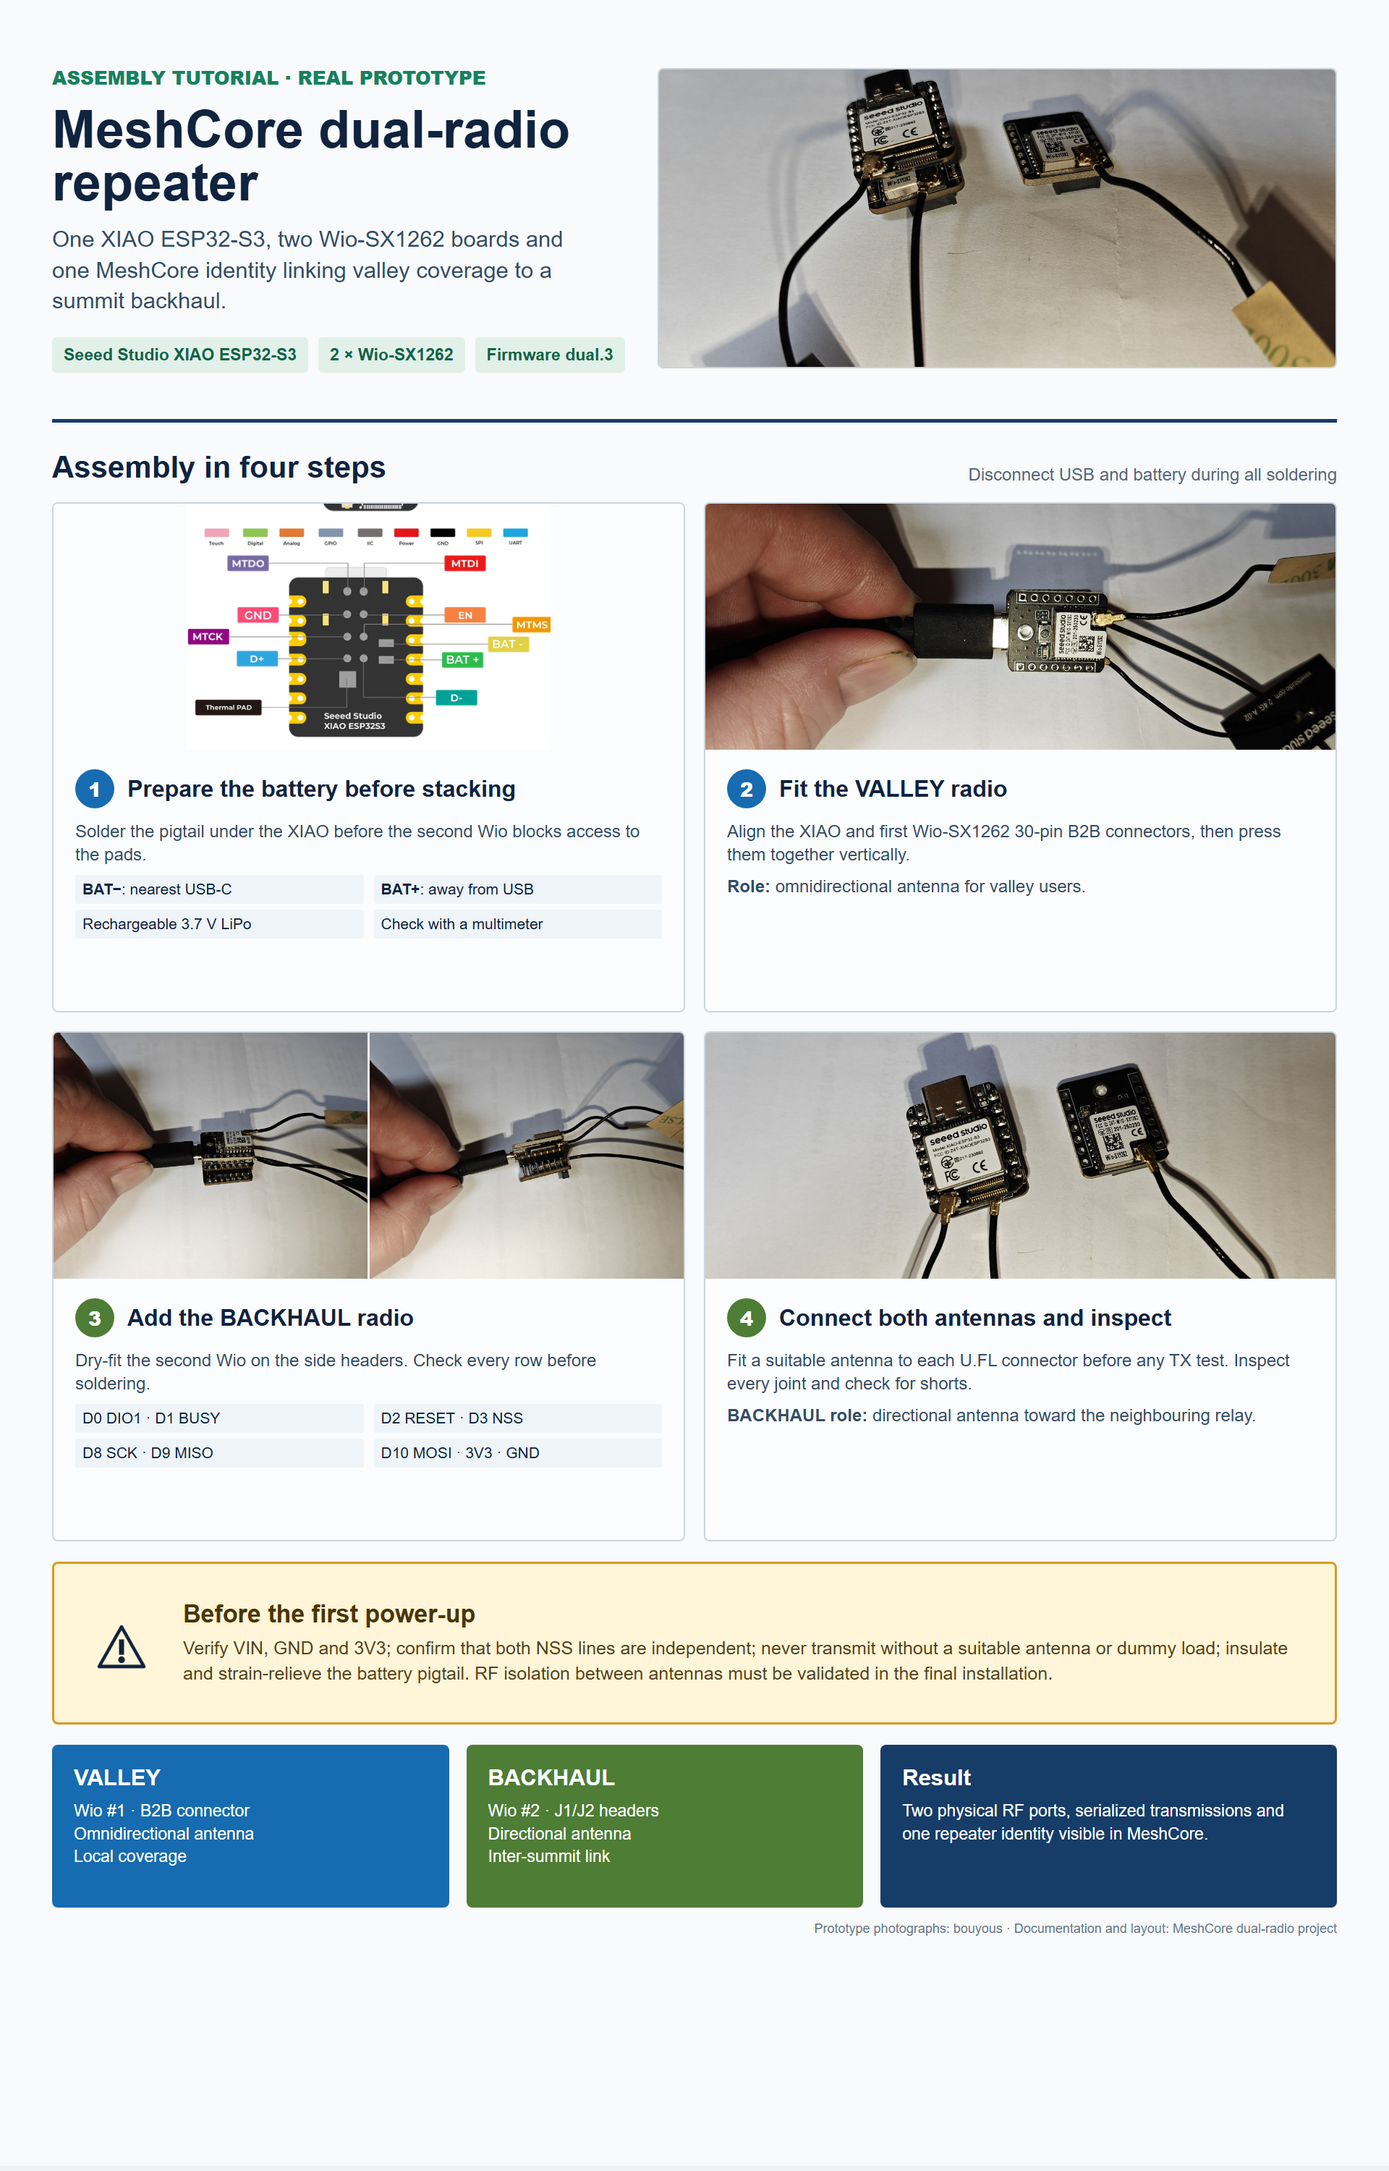
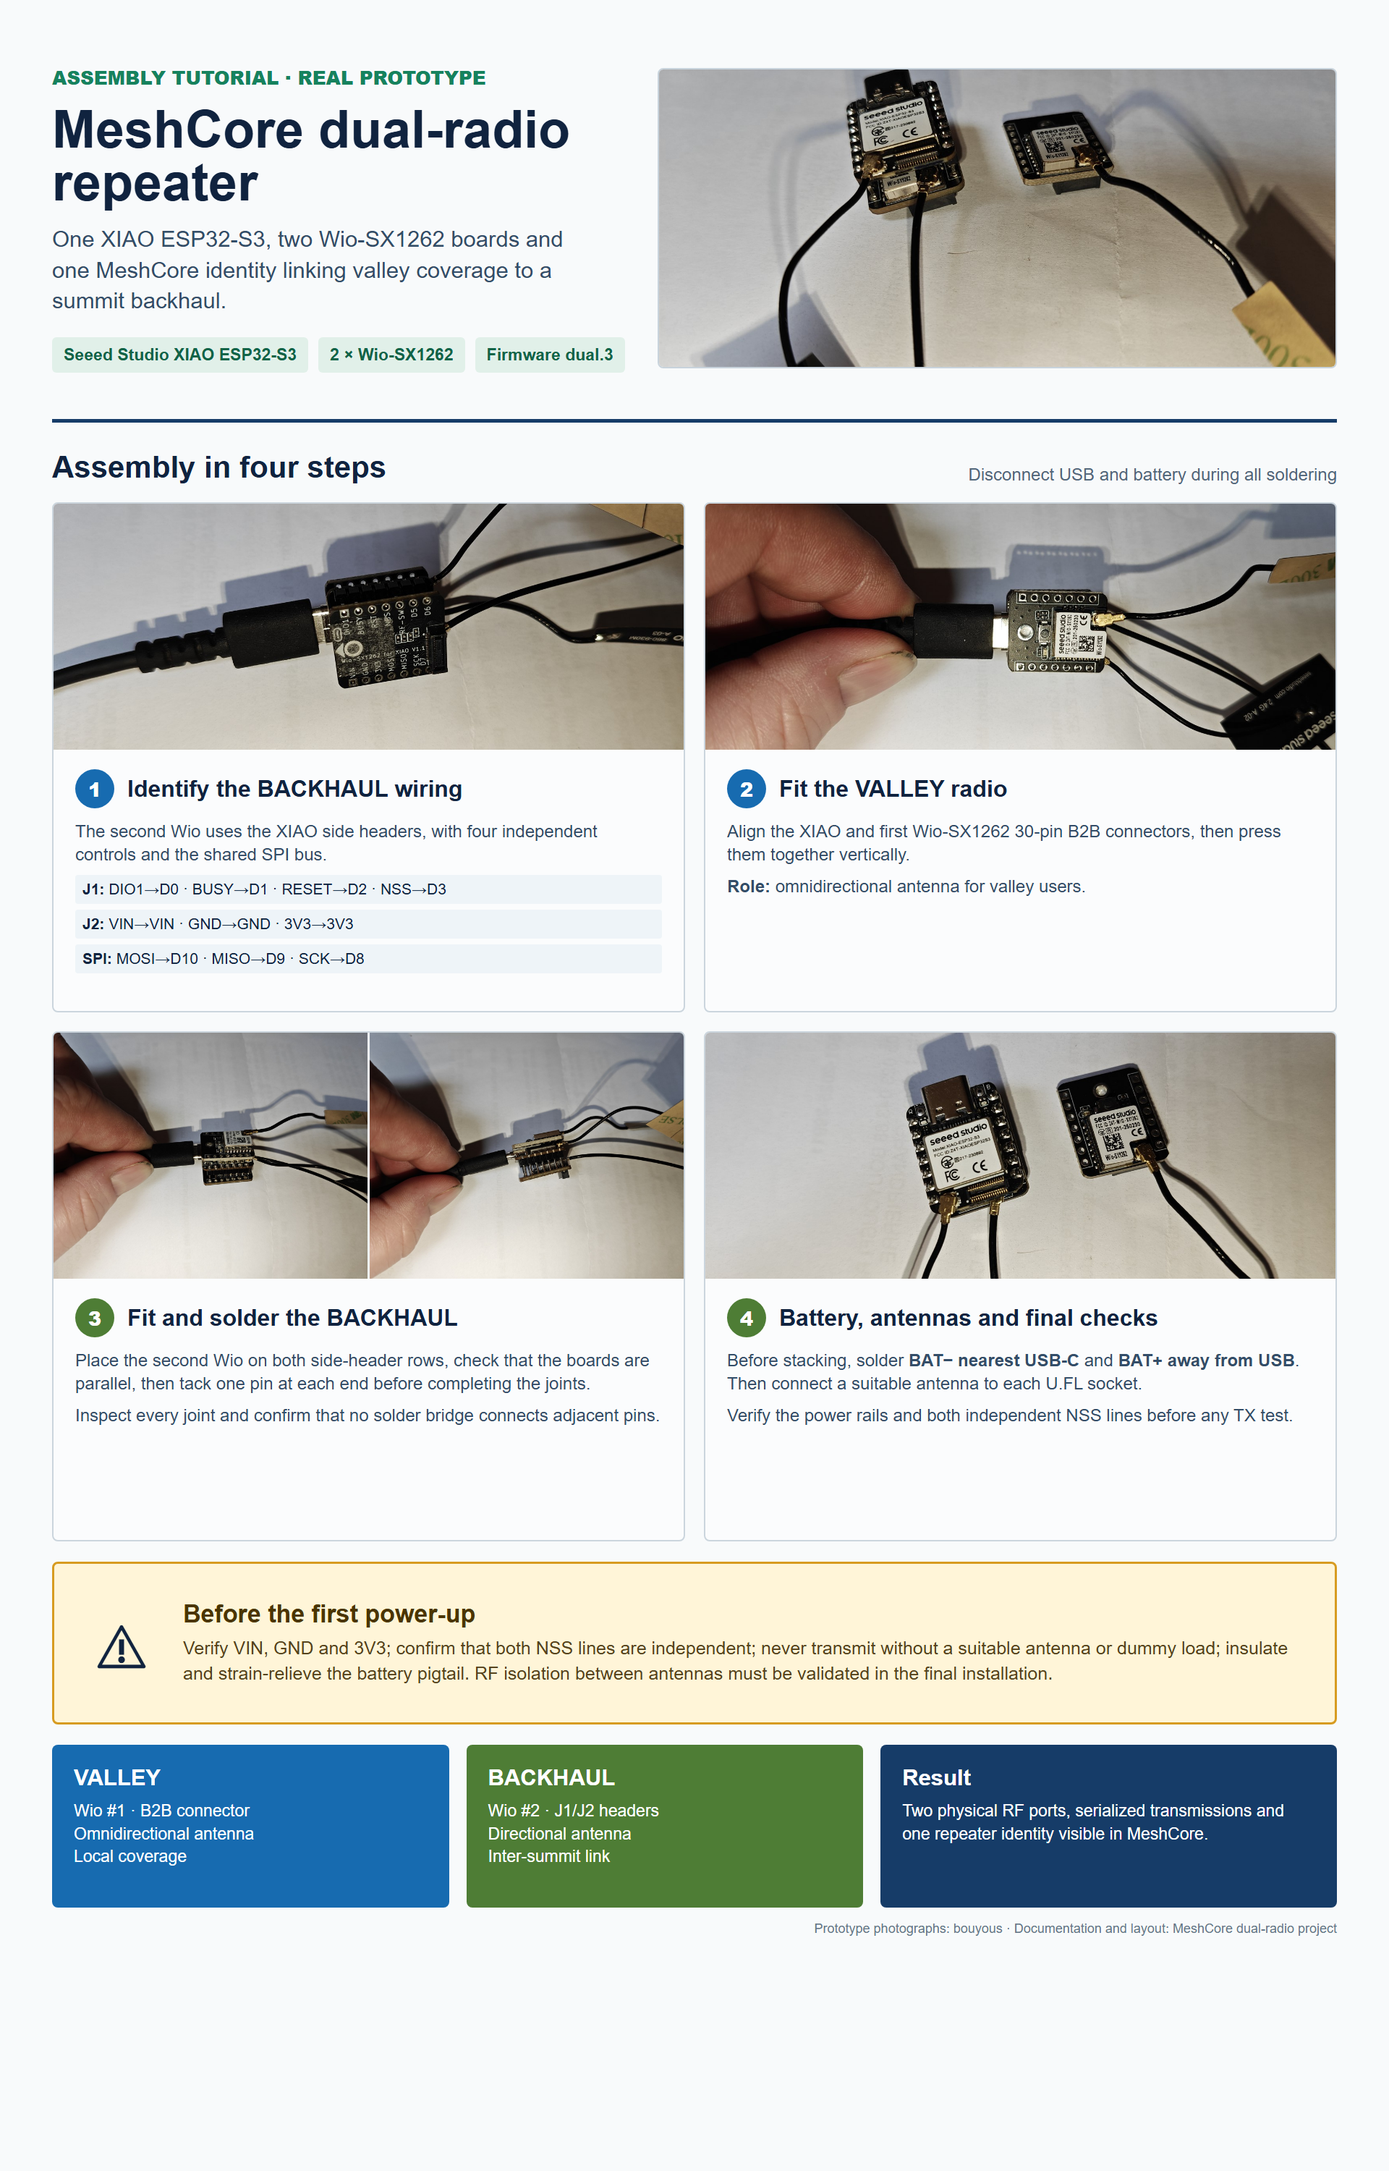
Prioritize backhaul wiring in assembly tutorial

Changed region(s): [[0.0312, 0.217, 0.5, 0.434], [0.0625, 0.589, 0.4375, 0.682], [0.5312, 0.589, 0.9375, 0.651]]

diff --git a/docs/assets/assembly/assembly-tutorial-source.html b/docs/assets/assembly/assembly-tutorial-source.html
@@ -39,6 +39,7 @@
     .step p { margin: 0 0 12px; font-size: 24px; line-height: 1.34; color: #334d68; }
     .mapping { margin-top: 11px; display: grid; grid-template-columns: 1fr 1fr; gap: 8px 14px; font-size: 21px; color: #10233f; }
     .mapping span { padding: 8px 10px; background: #eef4f8; border-radius: 4px; }
+    .mapping .wide { grid-column: 1 / -1; }
     .warnings { margin-top: 28px; min-height: 225px; display: grid; grid-template-columns: 118px 1fr; align-items: center; gap: 26px; padding: 28px 34px; background: #fff5d8; border: 3px solid #d79b20; border-radius: 8px; }
     .warning-icon { font-size: 78px; text-align: center; }
     .warnings h2 { margin: 0 0 10px; font-size: 34px; color: #4b3500; }
@@ -67,8 +68,8 @@
     <div class="section-head"><h2>Assemblage en quatre étapes</h2><p>USB et batterie débranchés pendant toute soudure</p></div>
     <section class="steps">
       <article class="step">
-        <div class="step-media contain"><img src="09-battery-pads.png" alt="Pads batterie officiels du XIAO ESP32-S3"></div>
-        <div class="step-body"><div class="step-title"><span class="number">1</span><h3>Préparer la batterie avant l'empilage</h3></div><p>Souder le faisceau sous le XIAO avant que le second Wio ne masque les pads.</p><div class="mapping"><span><strong>BAT−</strong> : côté USB-C</span><span><strong>BAT+</strong> : côté opposé</span><span>LiPo rechargeable 3,7 V</span><span>Contrôle au multimètre</span></div></div>
+        <div class="step-media"><img src="04-backhaul-pin-labels.jpg" alt="Broches du second Wio-SX1262"></div>
+        <div class="step-body"><div class="step-title"><span class="number">1</span><h3>Repérer le câblage BACKHAUL</h3></div><p>Le second Wio utilise les broches latérales du XIAO, avec quatre commandes indépendantes et le bus SPI partagé.</p><div class="mapping"><span class="wide"><strong>J1 :</strong> DIO1→D0 · BUSY→D1 · RESET→D2 · NSS→D3</span><span class="wide"><strong>J2 :</strong> VIN→VIN · GND→GND · 3V3→3V3</span><span class="wide"><strong>SPI :</strong> MOSI→D10 · MISO→D9 · SCK→D8</span></div></div>
       </article>
       <article class="step">
         <div class="step-media"><img src="03-valley-radio-mounted.jpg" alt="Premier Wio-SX1262 monté sur le connecteur B2B"></div>
@@ -76,11 +77,11 @@
       </article>
       <article class="step green">
         <div class="step-media two"><img src="05-dual-stack-top.jpg" alt="Empilage des deux radios, vue supérieure"><img src="06-dual-stack-side.jpg" alt="Empilage des deux radios, vue latérale"></div>
-        <div class="step-body"><div class="step-title"><span class="number">3</span><h3>Ajouter le radio BACKHAUL</h3></div><p>Présenter le second Wio sur les rangées latérales. Vérifier tout l'alignement avant de souder.</p><div class="mapping"><span>D0 DIO1 · D1 BUSY</span><span>D2 RESET · D3 NSS</span><span>D8 SCK · D9 MISO</span><span>D10 MOSI · 3V3 · GND</span></div></div>
+        <div class="step-body"><div class="step-title"><span class="number">3</span><h3>Monter et souder le BACKHAUL</h3></div><p>Présenter le second Wio sur les deux rangées latérales, contrôler le parallélisme, puis souder une broche à chaque extrémité avant de terminer.</p><p>Inspecter chaque joint et vérifier qu'aucun pont ne relie deux broches.</p></div>
       </article>
       <article class="step green">
         <div class="step-media"><img src="02-parts-top.jpg" alt="Deux radios avec leurs antennes"></div>
-        <div class="step-body"><div class="step-title"><span class="number">4</span><h3>Brancher les deux antennes et contrôler</h3></div><p>Une antenne adaptée sur chaque prise U.FL avant tout essai TX. Inspecter les soudures et vérifier l'absence de court-circuit.</p><p><strong>Rôle BACKHAUL :</strong> antenne directionnelle vers le relais voisin.</p></div>
+        <div class="step-body"><div class="step-title"><span class="number">4</span><h3>Batterie, antennes et contrôles</h3></div><p>Avant l'empilage, souder <strong>BAT− côté USB-C</strong> et <strong>BAT+ côté opposé</strong>. Brancher ensuite une antenne adaptée sur chaque prise U.FL.</p><p>Vérifier les alimentations et l'indépendance des deux lignes NSS avant tout essai TX.</p></div>
       </article>
     </section>
     <section class="warnings"><div class="warning-icon">⚠</div><div><h2>Avant la première mise sous tension</h2><p>Vérifier VIN, GND et 3V3 ; confirmer que les deux NSS sont indépendants ; ne jamais émettre sans antenne ou charge adaptée ; isoler et soulager mécaniquement le faisceau batterie. La séparation RF des antennes doit être validée dans l'installation finale.</p></div></section>
@@ -101,8 +102,8 @@
     <div class="section-head"><h2>Assembly in four steps</h2><p>Disconnect USB and battery during all soldering</p></div>
     <section class="steps">
       <article class="step">
-        <div class="step-media contain"><img src="09-battery-pads.png" alt="Official XIAO ESP32-S3 battery pads"></div>
-        <div class="step-body"><div class="step-title"><span class="number">1</span><h3>Prepare the battery before stacking</h3></div><p>Solder the pigtail under the XIAO before the second Wio blocks access to the pads.</p><div class="mapping"><span><strong>BAT−</strong>: nearest USB-C</span><span><strong>BAT+</strong>: away from USB</span><span>Rechargeable 3.7 V LiPo</span><span>Check with a multimeter</span></div></div>
+        <div class="step-media"><img src="04-backhaul-pin-labels.jpg" alt="Second Wio-SX1262 side-header pins"></div>
+        <div class="step-body"><div class="step-title"><span class="number">1</span><h3>Identify the BACKHAUL wiring</h3></div><p>The second Wio uses the XIAO side headers, with four independent controls and the shared SPI bus.</p><div class="mapping"><span class="wide"><strong>J1:</strong> DIO1→D0 · BUSY→D1 · RESET→D2 · NSS→D3</span><span class="wide"><strong>J2:</strong> VIN→VIN · GND→GND · 3V3→3V3</span><span class="wide"><strong>SPI:</strong> MOSI→D10 · MISO→D9 · SCK→D8</span></div></div>
       </article>
       <article class="step">
         <div class="step-media"><img src="03-valley-radio-mounted.jpg" alt="First Wio-SX1262 fitted through the B2B connector"></div>
@@ -110,11 +111,11 @@
       </article>
       <article class="step green">
         <div class="step-media two"><img src="05-dual-stack-top.jpg" alt="Dual-radio stack, top view"><img src="06-dual-stack-side.jpg" alt="Dual-radio stack, side view"></div>
-        <div class="step-body"><div class="step-title"><span class="number">3</span><h3>Add the BACKHAUL radio</h3></div><p>Dry-fit the second Wio on the side headers. Check every row before soldering.</p><div class="mapping"><span>D0 DIO1 · D1 BUSY</span><span>D2 RESET · D3 NSS</span><span>D8 SCK · D9 MISO</span><span>D10 MOSI · 3V3 · GND</span></div></div>
+        <div class="step-body"><div class="step-title"><span class="number">3</span><h3>Fit and solder the BACKHAUL</h3></div><p>Place the second Wio on both side-header rows, check that the boards are parallel, then tack one pin at each end before completing the joints.</p><p>Inspect every joint and confirm that no solder bridge connects adjacent pins.</p></div>
       </article>
       <article class="step green">
         <div class="step-media"><img src="02-parts-top.jpg" alt="Two radios with their antennas"></div>
-        <div class="step-body"><div class="step-title"><span class="number">4</span><h3>Connect both antennas and inspect</h3></div><p>Fit a suitable antenna to each U.FL connector before any TX test. Inspect every joint and check for shorts.</p><p><strong>BACKHAUL role:</strong> directional antenna toward the neighbouring relay.</p></div>
+        <div class="step-body"><div class="step-title"><span class="number">4</span><h3>Battery, antennas and final checks</h3></div><p>Before stacking, solder <strong>BAT− nearest USB-C</strong> and <strong>BAT+ away from USB</strong>. Then connect a suitable antenna to each U.FL socket.</p><p>Verify the power rails and both independent NSS lines before any TX test.</p></div>
       </article>
     </section>
     <section class="warnings"><div class="warning-icon">⚠</div><div><h2>Before the first power-up</h2><p>Verify VIN, GND and 3V3; confirm that both NSS lines are independent; never transmit without a suitable antenna or dummy load; insulate and strain-relieve the battery pigtail. RF isolation between antennas must be validated in the final installation.</p></div></section>

diff --git a/docs/ASSEMBLY.fr.md b/docs/ASSEMBLY.fr.md
@@ -17,30 +17,9 @@ Ce tutoriel montre le prototype réellement utilisé : un **Seeed Studio XIAO ES
 
 ![Matériel réel](assets/assembly/01-parts-overview.jpg)
 
-## 1. Tout débrancher
+## Câblage essentiel du `BACKHAUL`
 
-Débrancher le câble USB, la batterie et toute autre alimentation. Ne jamais souder une carte alimentée. Installer une antenne ou une charge adaptée sur chaque Wio avant tout essai d'émission.
-
-## 2. Préparer la batterie avant l'empilage
-
-Les pads sont sous le XIAO et deviendront difficiles à atteindre après la pose du second Wio. Avec l'USB-C comme repère :
-
-- `BAT-` est le pad le plus proche de l'USB-C, à relier au fil noir ;
-- `BAT+` est le pad le plus éloigné de l'USB-C, à relier au fil rouge.
-
-Utiliser une batterie lithium rechargeable qualifiée de 3,7 V. Isoler les deux soudures et ajouter un soulagement de traction. Ne pas brancher la batterie sur `VIN`, `5V` ou `3V3`.
-
-![Brochage officiel et pads batterie](assets/assembly/08-official-pinout.png)
-
-## 3. Monter le Wio `VALLEY`
-
-Le premier Wio-SX1262 utilise le connecteur 30 broches B2B prévu par Seeed. Orienter l'USB-C du XIAO vers le haut, aligner les deux connecteurs et presser verticalement sans torsion. Ce port est destiné à l'antenne omnidirectionnelle de la vallée.
-
-![Premier Wio monté sur le connecteur B2B](assets/assembly/03-valley-radio-mounted.jpg)
-
-## 4. Présenter le Wio `BACKHAUL`
-
-Avant toute soudure, emboîter à blanc le second Wio sur les broches latérales. Les deux rangées doivent rester parallèles et les cartes ne doivent pas se toucher en dehors des connecteurs prévus.
+Le second Wio-SX1262 n'utilise pas le connecteur B2B 30 broches. Il se monte sur les deux rangées latérales du XIAO. Vérifier ce raccordement avant de présenter ou de souder la carte.
 
 Le côté `J1` fournit les commandes indépendantes :
 
@@ -63,6 +42,31 @@ Le côté `J2` fournit l'alimentation et le bus SPI partagé :
 | SCK | D8 | 7 |
 
 ![Repères sérigraphiés du second Wio](assets/assembly/04-backhaul-pin-labels.jpg)
+
+## 1. Tout débrancher
+
+Débrancher le câble USB, la batterie et toute autre alimentation. Ne jamais souder une carte alimentée. Installer une antenne ou une charge adaptée sur chaque Wio avant tout essai d'émission.
+
+## 2. Préparer la batterie avant l'empilage
+
+Les pads sont sous le XIAO et deviendront difficiles à atteindre après la pose du second Wio. Avec l'USB-C comme repère :
+
+- `BAT-` est le pad le plus proche de l'USB-C, à relier au fil noir ;
+- `BAT+` est le pad le plus éloigné de l'USB-C, à relier au fil rouge.
+
+Utiliser une batterie lithium rechargeable qualifiée de 3,7 V. Isoler les deux soudures et ajouter un soulagement de traction. Ne pas brancher la batterie sur `VIN`, `5V` ou `3V3`.
+
+![Pads batterie officiels](assets/assembly/09-battery-pads.png)
+
+## 3. Monter le Wio `VALLEY`
+
+Le premier Wio-SX1262 utilise le connecteur 30 broches B2B prévu par Seeed. Orienter l'USB-C du XIAO vers le haut, aligner les deux connecteurs et presser verticalement sans torsion. Ce port est destiné à l'antenne omnidirectionnelle de la vallée.
+
+![Premier Wio monté sur le connecteur B2B](assets/assembly/03-valley-radio-mounted.jpg)
+
+## 4. Présenter le Wio `BACKHAUL`
+
+En suivant le tableau ci-dessus, emboîter à blanc le second Wio sur les broches latérales. Les deux rangées doivent rester parallèles et les cartes ne doivent pas se toucher en dehors des connecteurs prévus. Contrôler encore le côté `J1` des commandes et le côté `J2` alimentation/SPI avant de souder.
 
 ## 5. Souder les deux rangées
 

diff --git a/docs/ASSEMBLY.md b/docs/ASSEMBLY.md
@@ -17,30 +17,9 @@ This tutorial shows the actual prototype hardware: one **Seeed Studio XIAO ESP32
 
 ![Actual prototype parts](assets/assembly/01-parts-overview.jpg)
 
-## 1. Disconnect all power
+## Essential `BACKHAUL` wiring map
 
-Disconnect USB, battery and every other power source. Never solder a powered board. Fit an antenna or suitable dummy load to each Wio before any transmission test.
-
-## 2. Prepare the battery before stacking
-
-The battery pads are under the XIAO and become difficult to reach after the second Wio is fitted. Using USB-C as the orientation reference:
-
-- `BAT-` is the pad nearest USB-C and connects to the black lead;
-- `BAT+` is the pad away from USB-C and connects to the red lead.
-
-Use a qualified rechargeable 3.7 V lithium battery. Insulate both joints and add strain relief. Do not connect the battery to `VIN`, `5V` or `3V3`.
-
-![Official pinout and battery pads](assets/assembly/08-official-pinout.png)
-
-## 3. Fit the `VALLEY` Wio
-
-The first Wio-SX1262 uses Seeed's standard 30-pin B2B connector. Point the XIAO USB-C end upward, align both connectors and press vertically without twisting. This port is intended for the valley omnidirectional antenna.
-
-![First Wio fitted through the B2B connector](assets/assembly/03-valley-radio-mounted.jpg)
-
-## 4. Dry-fit the `BACKHAUL` Wio
-
-Before soldering, dry-fit the second Wio on the side headers. Both rows must stay parallel and the boards must not touch outside the intended connectors.
+The second Wio-SX1262 does not use the 30-pin B2B connector. It is fitted to the two XIAO side-header rows. Confirm this mapping before placing or soldering the board.
 
 The `J1` side provides the independent controls:
 
@@ -63,6 +42,31 @@ The `J2` side provides power and the shared SPI bus:
 | SCK | D8 | 7 |
 
 ![Second Wio silkscreen labels](assets/assembly/04-backhaul-pin-labels.jpg)
+
+## 1. Disconnect all power
+
+Disconnect USB, battery and every other power source. Never solder a powered board. Fit an antenna or suitable dummy load to each Wio before any transmission test.
+
+## 2. Prepare the battery before stacking
+
+The battery pads are under the XIAO and become difficult to reach after the second Wio is fitted. Using USB-C as the orientation reference:
+
+- `BAT-` is the pad nearest USB-C and connects to the black lead;
+- `BAT+` is the pad away from USB-C and connects to the red lead.
+
+Use a qualified rechargeable 3.7 V lithium battery. Insulate both joints and add strain relief. Do not connect the battery to `VIN`, `5V` or `3V3`.
+
+![Official battery pads](assets/assembly/09-battery-pads.png)
+
+## 3. Fit the `VALLEY` Wio
+
+The first Wio-SX1262 uses Seeed's standard 30-pin B2B connector. Point the XIAO USB-C end upward, align both connectors and press vertically without twisting. This port is intended for the valley omnidirectional antenna.
+
+![First Wio fitted through the B2B connector](assets/assembly/03-valley-radio-mounted.jpg)
+
+## 4. Dry-fit the `BACKHAUL` Wio
+
+Using the wiring map above, dry-fit the second Wio on the side headers. Both rows must stay parallel and the boards must not touch outside the intended connectors. Recheck the `J1` control side and `J2` power/SPI side before soldering.
 
 ## 5. Solder both rows
 
